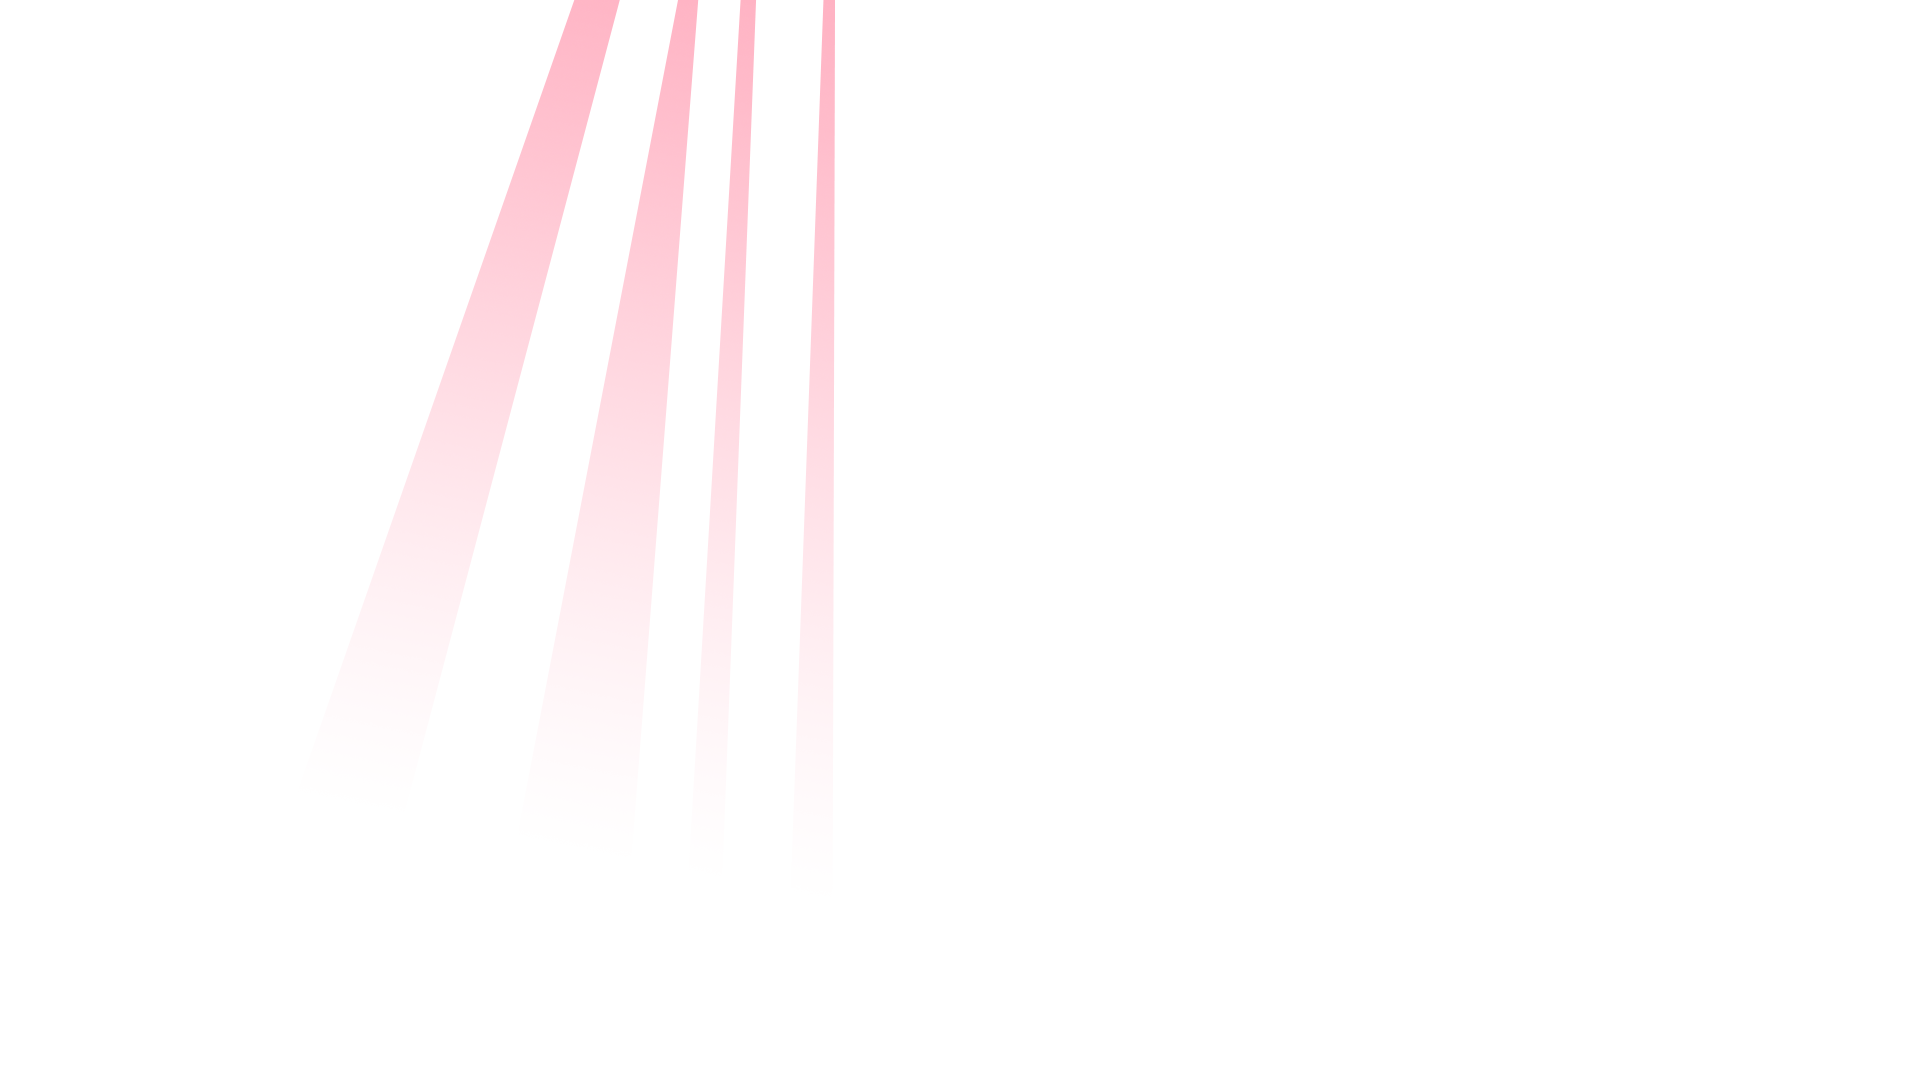
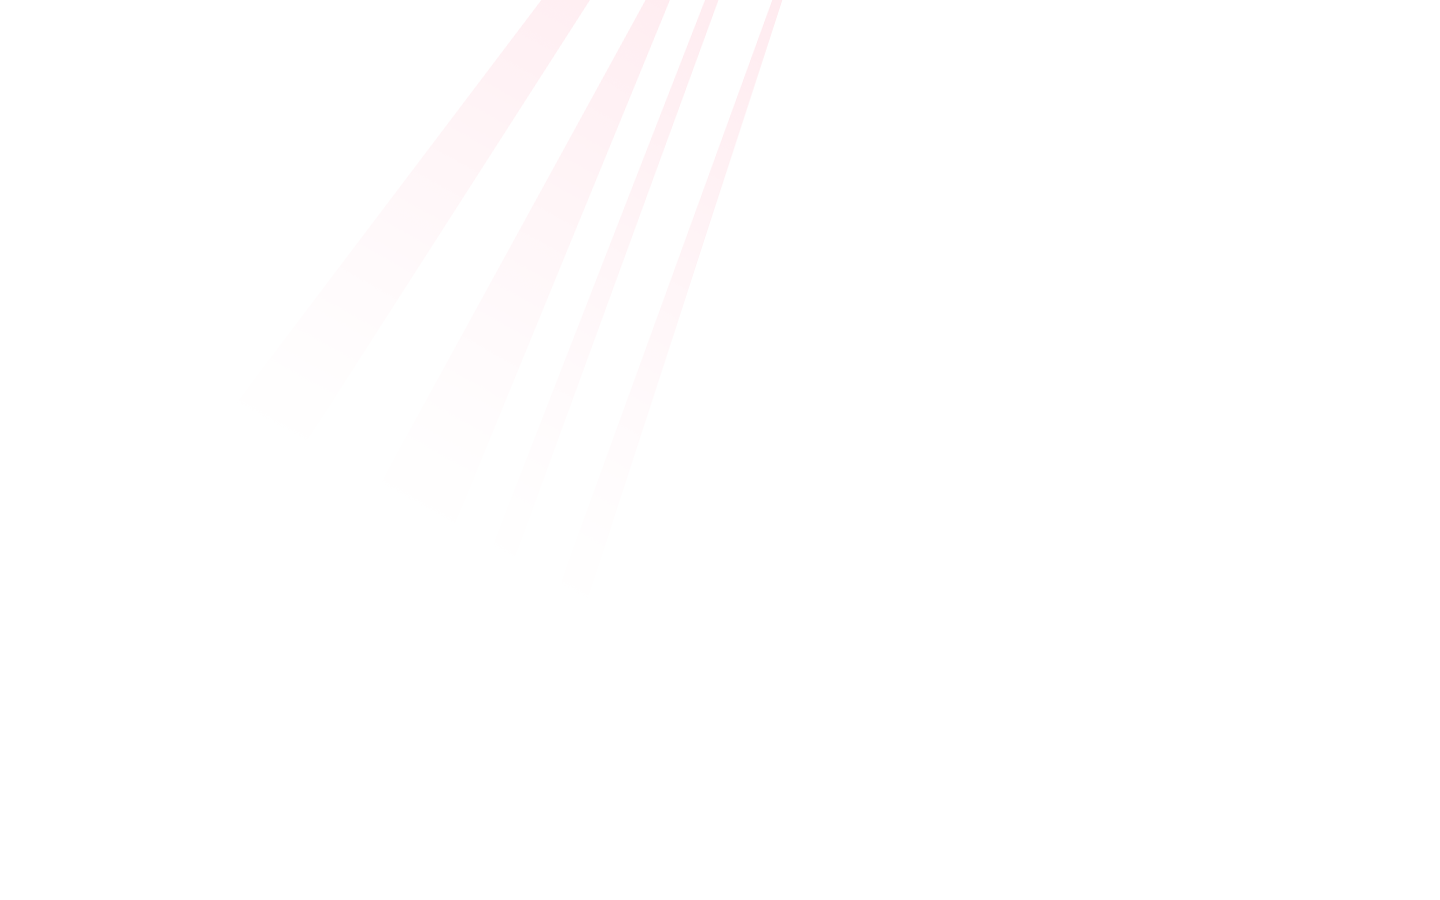
bg dinamico

Changed region(s): [[0.2188, 0.0, 0.4375, 0.4978]]

diff --git a/components/FondoDinamico.js b/components/FondoDinamico.js
@@ -1,8 +1,8 @@
 import { useState, useEffect } from 'react'
 import fondo from '../public/assets/images/fondo.png'
 
-import columna_left from '../public/assets/images/columna_left.png'
-import columna_right from '../public/assets/images/columna_right.png'
+import columna_derecha from '../public/assets/images/columna_derecha.png'
+import columna_izquierda from '../public/assets/images/columna_izquierda.png'
 import monje from '../public/assets/images/monje.png'
 import luz from '../public/assets/images/luz.png'
 import luz_rayos from '../public/assets/images/luz_rayos.png'
@@ -15,41 +15,47 @@ const FondoDinamico = ( props ) => {
     }
 
     const [columnLeftPosition, setColumnLeftPosition ] = useState({ bottom: 0, left: 0})
-    const [columnRightPosition, setColumnRightPosition ] = useState({ bottom: 0, right: 0})
-    const [monkPosition, setMonkPosition ] = useState({ top: -50 , left: 0})
-    const [luzPosition, setLuzPosition ] = useState({ top: 0 , left: 400})
-    const [luzRayosPosition, setLuzRayosPosition ] = useState({ top: 0 , left: 0})
+    const [columnRightPosition, setColumnRightPosition ] = useState({ bottom: 0, left: 0})
+    const [monkPosition, setMonkPosition ] = useState({ bottom: 0 , left: 0})
+    const [luzPosition, setLuzPosition ] = useState({ bottom: 0 , left: 0})
+    const [luzRayosPosition, setLuzRayosPosition ] = useState({ bottom: 0 , left: 0})
 
     const columnLeftStyle = {
+        backgroundImage: `url('${columna_izquierda.src}')`,
         bottom: columnLeftPosition.bottom,
         left: columnLeftPosition.left
     }
 
     const columnRightStyle = {
+        backgroundImage: `url('${columna_derecha.src}')`,
         bottom: columnRightPosition.bottom,
-        right: 0 + columnRightPosition.right,
+        left: columnRightPosition.left
     }
 
     const monkStyle = {
-        top: -50 + monkPosition.top,
-        left: 0 + monkPosition.left,
+        backgroundImage: `url('${monje.src}')`,
+        bottom: monkPosition.bottom,
+        left: monkPosition.left
     }
 
     const lightStyle = {
-        top: luzPosition.top,
-        left: 400 + luzPosition.left,
+        backgroundImage: `url('${luz.src}')`,
+        bottom: luzPosition.bottom,
+        left: luzPosition.left
     }
 
     const lighRaytStyle = {
-        top: luzRayosPosition.top,
+        backgroundImage: `url('${luz_rayos.src}')`,
+        bottom: luzRayosPosition.bottom,
         left: luzRayosPosition.left,
     }
 
     const mouseMoveHandler = (ev) => {
-        setColumnLeftPosition({bottom: -ev.screenY/300, left: -ev.screenX/300})
-        setColumnRightPosition({bottom: -ev.screenY/50, right: ev.screenX/50})
-        setMonkPosition({top: ev.screenY/75, left: -ev.screenX/75})
-        setLuzPosition({top: ev.screenY/300, left: -ev.screenX/300})
+        setColumnLeftPosition({bottom: ev.screenY/300, left: -ev.screenX/300})
+        setColumnRightPosition({bottom: ev.screenY/300, left: -ev.screenX/300})
+        setMonkPosition({bottom: ev.screenY/100, left: -ev.screenX/100})
+        setLuzPosition({bottom: ev.screenY/40, left: -ev.screenX/40})
+        setLuzRayosPosition({bottom: ev.screenY/50, left: -ev.screenX/50})
     }
 
     useEffect(() => {
@@ -58,11 +64,11 @@ const FondoDinamico = ( props ) => {
     
     return (
         <div data-component="FondoDinamico" className='h-screen w-screen relative' style={style}>
-            <img  src={luz.src} alt="Columna Ilustration" className="absolute scale-150 opacity-30" style={lightStyle} />
-            <img  src={luz_rayos.src} alt="Columna Ilustration" className="absolute opacity-30" style={lighRaytStyle} />
-            <img  src={monje.src} alt="Columna Ilustration" className="absolute scale-125" style={monkStyle} />
-            <img  src={columna_left.src} alt="Columna Ilustration" className="absolute" style={columnLeftStyle} />
-            <img  src={columna_right.src} alt="Columna Ilustration" className="absolute" style={columnRightStyle} />
+            <div className='absolute h-screen w-screen bg-cover bg-no-repeat' style={lightStyle}></div>
+            <div className='absolute h-screen w-screen bg-cover bg-no-repeat' style={lighRaytStyle}></div>
+            <div className='absolute h-screen w-screen bg-cover bg-no-repeat' style={monkStyle}></div>
+            <div className='absolute h-screen w-screen bg-cover bg-no-repeat ' style={columnLeftStyle}></div>
+            <div className='absolute h-screen w-screen bg-cover bg-no-repeat' style={columnRightStyle}></div>
         </div>
     )
 }
